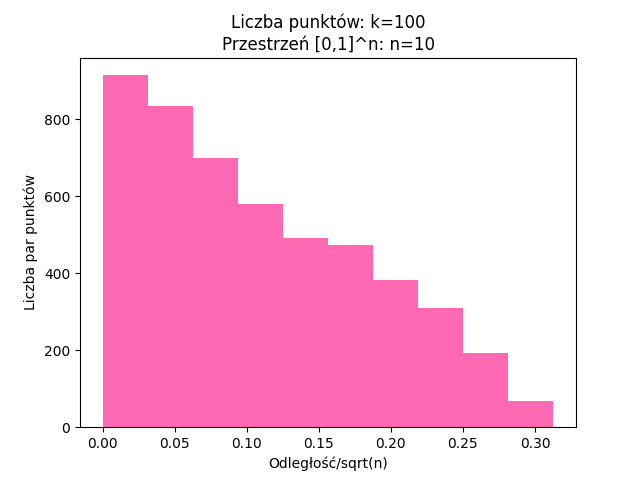
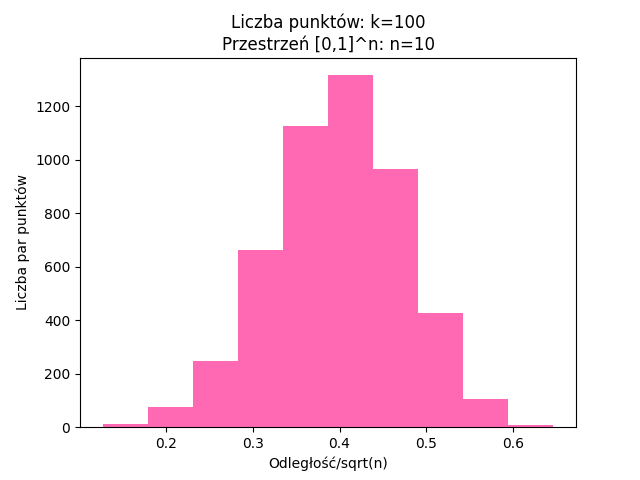
bug fixed

diff --git a/44.py b/44.py
@@ -15,7 +15,7 @@ def distance(p1,p2):
     n=len(p1)
     suma=0
     for i in range(0,n):
-        suma=(p1[i]-p2[i])**2
+        suma+=(p1[i]-p2[i])**2
     return math.sqrt(suma)
 
 def distances(points):
@@ -29,7 +29,7 @@ def distances(points):
             distances.append(distance(points[i],points[j]) / sqn)            
     return distances
 
-n=1  # 1, 10, 100, 1000, 10000
+n=10000  # 1, 10, 100, 1000, 10000
 k=100
 
 X=Points(n,k)
